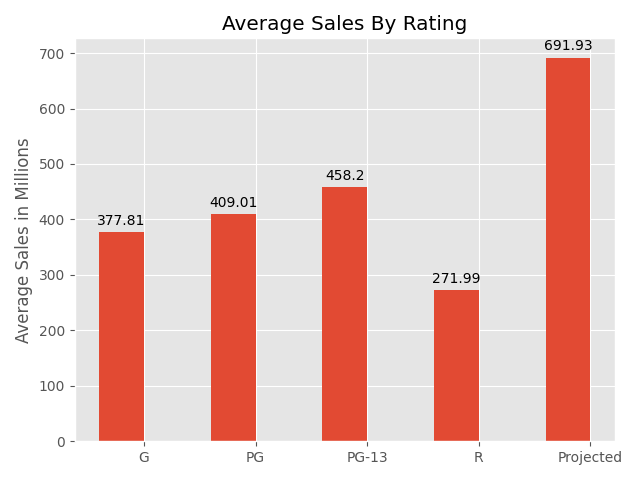
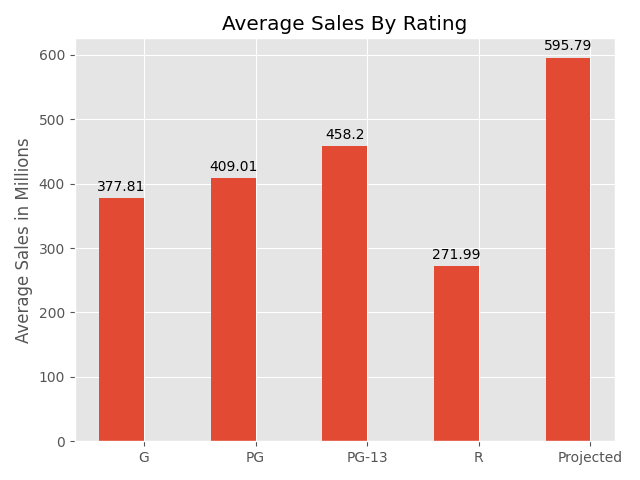
Correction to determining final world sales amount

diff --git a/app.py b/app.py
@@ -625,12 +625,12 @@ def predict_movie_success():
         genres_world_sales += (month_average_sales + genres_world_sales) / 2
 
         # movie rating modifier
-        # get chosen rating then reduce by 5% if rated R
-        # reference studies showing decrease in sales if movie is rate R or other than G/PG/PG-13
+        # get chosen rating then reduce by 20% if rated R
+        # sales data backs up this reduction (see rating_sales_comparison.png for reference)
         if selected_movie_rating == 'R':
-            genres_domestic_sales *= 0.95
-            genres_international_sales *= 0.95
-            genres_world_sales *= 0.95
+            genres_domestic_sales *= 0.7
+            genres_international_sales *= 0.7
+            genres_world_sales = genres_domestic_sales + genres_international_sales
 
         # increase sales for continuations of popular series and
         series_movies = {}
@@ -639,7 +639,7 @@ def predict_movie_success():
                 if series_selection in movie.title:
                     genres_domestic_sales += (genres_domestic_sales * 0.2)
                     genres_international_sales += (genres_international_sales * 0.2)
-                    genres_world_sales += (genres_world_sales * 0.2)
+                    genres_world_sales = genres_domestic_sales + genres_international_sales
                     # first match found breaks loop to avoid duplicate additions
                     break
 
@@ -695,7 +695,7 @@ def predict_movie_success():
         if len(selected_genres) > 8:
             genres_domestic_sales -= (genres_domestic_sales * (0.1 * (len(selected_genres) - 8)))
             genres_international_sales -= (genres_international_sales * (0.1 * (len(selected_genres) - 8)))
-            genres_world_sales -= (genres_world_sales * (0.1 * (len(selected_genres) - 8)))
+            genres_world_sales = genres_world_sales = genres_domestic_sales + genres_international_sales
 
         # find movies with exact  or very similar genres to show as comparisons
         comparative_movies = []
